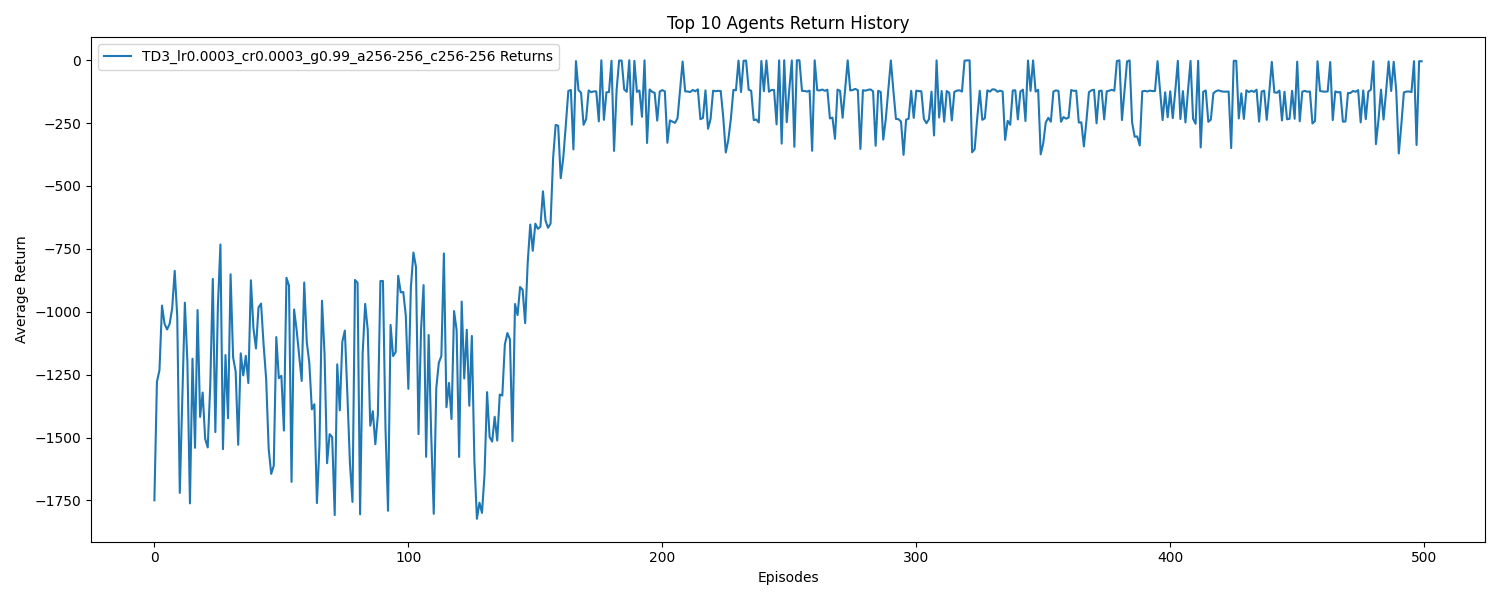
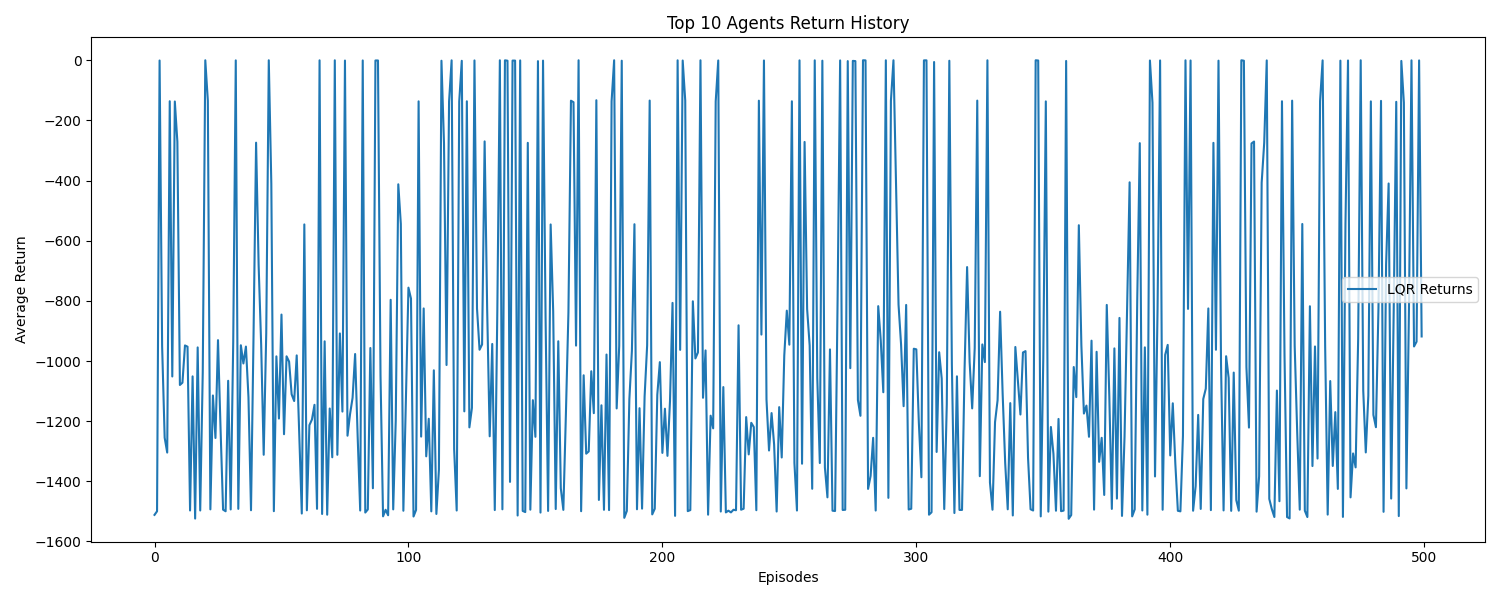
Implemented the Bees algorithm to tune the LQR controller

diff --git a/src/tune_lqr.py b/src/tune_lqr.py
@@ -1,0 +1,125 @@
+import numpy as np
+import gymnasium as gym
+from agents.lqr_agent import LQRAgent
+
+def evaluate_candidate(candidate, num_episodes=5, render=False):
+    """
+    Evaluate a candidate [q1, q2, r] by instantiating an LQRAgent with the given Q and R.
+    The candidate’s performance is measured by running several episodes with random initial conditions.
+    Instead of computing a custom cost, we accumulate the environment's reward over each episode.
+    The function returns the average reward over the episodes (higher is better).
+    """
+    q1, q2, r_val = candidate
+    q1 = max(q1, 1e-3)
+    q2 = max(q2, 1e-3)
+    r_val = max(r_val, 1e-3)
+    
+    config = {
+        'g': 10.0,
+        'Q': np.diag([q1, q2]),
+        'R': np.array([[r_val]])
+    }
+    
+    agent = LQRAgent(config)
+    
+    env = gym.make('Pendulum-v1', render_mode=None, g=10.0)
+    
+    total_reward = 0.0
+    num_steps = 200
+
+    for episode in range(num_episodes):
+        obs, _ = env.reset()
+        
+        episode_reward = 0.0
+        for t in range(num_steps):
+            action = agent.policy(obs)
+            u = action[0]
+            obs, reward, _, _, _ = env.step([u])
+            episode_reward += reward
+            
+            if render:
+                env.render()
+        
+        total_reward += episode_reward
+
+    env.close()
+    return total_reward / num_episodes
+
+def bees_algorithm(n=50, m=20, e=10, nep=20, nsp=15, ngh=0.1, iterations=50):
+    """
+    Implements the Bees Algorithm to optimize the LQR weighting matrices for the LQRAgent.
+    The search space for candidate [q1, q2, r] is:
+        q1 ∈ [0, 100], q2 ∈ [0, 10], r ∈ [0, 2]
+    This version maximizes the average reward.
+    """
+    bounds = np.array([[0, 100],
+                       [0, 10],
+                       [0, 2]])
+    dim = bounds.shape[0]
+    
+    # Initialize n scout bees randomly in the search space.
+    population = np.random.rand(n, dim)
+    for i in range(dim):
+        population[:, i] = bounds[i, 0] + population[:, i] * (bounds[i, 1] - bounds[i, 0])
+    
+    # Evaluate initial population (higher reward is better)
+    fitness = np.array([evaluate_candidate(candidate) for candidate in population])
+    best_reward = np.max(fitness)
+    best_candidate = population[np.argmax(fitness)]
+    
+    for itr in range(iterations):
+        # Sort population by fitness in descending order (higher reward is better)
+        sorted_indices = np.argsort(-fitness)
+        population = population[sorted_indices]
+        fitness = fitness[sorted_indices]
+        
+        new_population = []
+        # For the best m candidates, perform a local neighborhood search.
+        for i in range(m):
+            base_candidate = population[i]
+            recruits = nep if i < e else nsp
+            local_candidates = []
+            for j in range(recruits):
+                # Generate a candidate in the neighborhood of base_candidate.
+                perturbation = (np.random.rand(dim) * 2 - 1) * ngh * (bounds[:, 1] - bounds[:, 0])
+                candidate_local = base_candidate + perturbation
+                candidate_local = np.clip(candidate_local, bounds[:, 0], bounds[:, 1])
+                local_candidates.append(candidate_local)
+            local_candidates = np.array(local_candidates)
+            local_fitness = np.array([evaluate_candidate(candidate) for candidate in local_candidates])
+            best_local_index = np.argmax(local_fitness)
+            best_local_candidate = local_candidates[best_local_index]
+            best_local_reward = local_fitness[best_local_index]
+            new_population.append(best_local_candidate)
+            
+            if best_local_reward > best_reward:
+                best_reward = best_local_reward
+                best_candidate = best_local_candidate
+        
+        # Generate the remaining (n - m) scout bees randomly.
+        remaining = n - m
+        scouts = np.random.rand(remaining, dim)
+        for i in range(dim):
+            scouts[:, i] = bounds[i, 0] + scouts[:, i] * (bounds[i, 1] - bounds[i, 0])
+        new_population.extend(list(scouts))
+        
+        population = np.array(new_population)
+        fitness = np.array([evaluate_candidate(candidate) for candidate in population])
+        
+        print(f"Iteration {itr+1}/{iterations}, best average reward: {best_reward}")
+    
+    return best_candidate, best_reward
+
+if __name__ == "__main__":
+    best_candidate, best_reward = bees_algorithm(iterations=20)
+    print("\nBest candidate parameters found (q1, q2, r):", best_candidate)
+    print("Best average reward:", best_reward)
+    
+    q1, q2, r_val = best_candidate
+    final_config = {
+        'g': 10.0,
+        'Q': np.diag([q1, q2]),
+        'R': np.array([[r_val]])
+    }
+    final_agent = LQRAgent(final_config)
+    print("Final computed LQR gain K:", final_agent.K)

diff --git a/src/main.py b/src/main.py
@@ -63,6 +63,8 @@ def run_episode(env_str: str, config: dict, num_episodes: int):
     start_episodes = config.get("start_episodes", 125)
     update_threshold = config.get("batch_size", 256)
 
+    agent_str = config.get("agent_str")
+
     for episode in range(num_episodes):
         ep_return = 0.0
         ep_actor_losses = []
@@ -72,9 +74,12 @@ def run_episode(env_str: str, config: dict, num_episodes: int):
 
         while not done:
             old_obs = obs
-            # Use random actions during the initial exploration phase.
-            if episode < start_episodes:
-                action = env.action_space.sample()
+            if agent_str == "TD3":
+                # Use random actions during the initial exploration phase.
+                if episode < start_episodes:
+                    action = env.action_space.sample()
+                else:
+                    action = agent.policy(old_obs)
             else:
                 action = agent.policy(old_obs)
             obs, reward, terminated, truncated, _ = env.step(action)
@@ -118,15 +123,16 @@ def train_agent(env_str: str, config: dict, tracker: MetricsTracker, num_runs: i
     if config["agent_str"] == "LQR":
         agent_id = "LQR"
     
-    actor_arch = "-".join(map(str, config.get("actor_hidden_sizes", (64, 64))))
-    critic_arch = "-".join(map(str, config.get("critic_hidden_sizes", (64, 64))))
+    else:
+        actor_arch = "-".join(map(str, config.get("actor_hidden_sizes", (64, 64))))
+        critic_arch = "-".join(map(str, config.get("critic_hidden_sizes", (64, 64))))
 
-    agent_id = f'{config["agent_str"]}_lr{config["actor_lr"]}_cr{config["critic_lr"]}_g{config["gamma"]}'
+        agent_id = f'{config["agent_str"]}_lr{config["actor_lr"]}_cr{config["critic_lr"]}_g{config["gamma"]}'
     
-    if config["agent_str"] == "AC":
-        agent_id += f'n{config["n_steps"]}'
-    
-    agent_id += f'_a{actor_arch}_c{critic_arch}'
+        if config["agent_str"] == "AC":
+            agent_id += f'n{config["n_steps"]}'
+        
+        agent_id += f'_a{actor_arch}_c{critic_arch}'
     
     logger.info(f"Training agent: {agent_id}")
 
@@ -259,6 +265,15 @@ def train_default():
         "show_last_episode": True,
     }
 
+    config_lqr = {
+        "agent_str": "LQR",
+        "g": 10.0,
+        "Q": np.diag([100., 7.66800711]), 
+        "R": np.array([[0.52253548]]),
+        "save_models": True,
+        "show_last_episode": False,
+    }
+
     config_td3 = {
         "agent_str": "TD3",
         "actor_lr": 3e-4,
@@ -282,7 +297,7 @@ def train_default():
 
     tracker = MetricsTracker()
 
-    train_agent(env_str, config_td3, tracker, num_runs, num_episodes)
+    train_agent(env_str, config_lqr, tracker, num_runs, num_episodes)
 
     tracker.save_top10_plots(folder="plots")
 

diff --git a/src/agents/lqr_agent.py b/src/agents/lqr_agent.py
@@ -24,9 +24,9 @@ class LQRAgent(AbstractAgent):
         #
         # Therefore, the system matrices are:
         A = np.array([[0, 1],
-                      [(3 * self.g) / (2 * self.l), 0]])  # For g=10, l=1, A = [[0,1], [-10,0]]
+                      [(3 * self.g) / (2 * self.l), 0]])
         B = np.array([[0],
-                      [3 / (self.m * self.l**2)]])  # For m=1, l=1, B = [[0], [1]]
+                      [3 / (self.m * self.l**2)]])
         
         self.A = A
         self.B = B
@@ -44,8 +44,8 @@ class LQRAgent(AbstractAgent):
         # Compute the optimal gain
         # Gain is computed as: K = R^{-1} B^T P
         self.K = np.linalg.inv(R) @ (B.T @ P)  # shape (1,2)
-        print("LQR P matrix:", P)
-        print("LQR gain K:", self.K)
+        # print("LQR P matrix:", P)
+        # print("LQR gain K:", self.K)
 
     def add_transition(self, transition: tuple) -> None:
         # LQR is computed offline; no transitions needed
